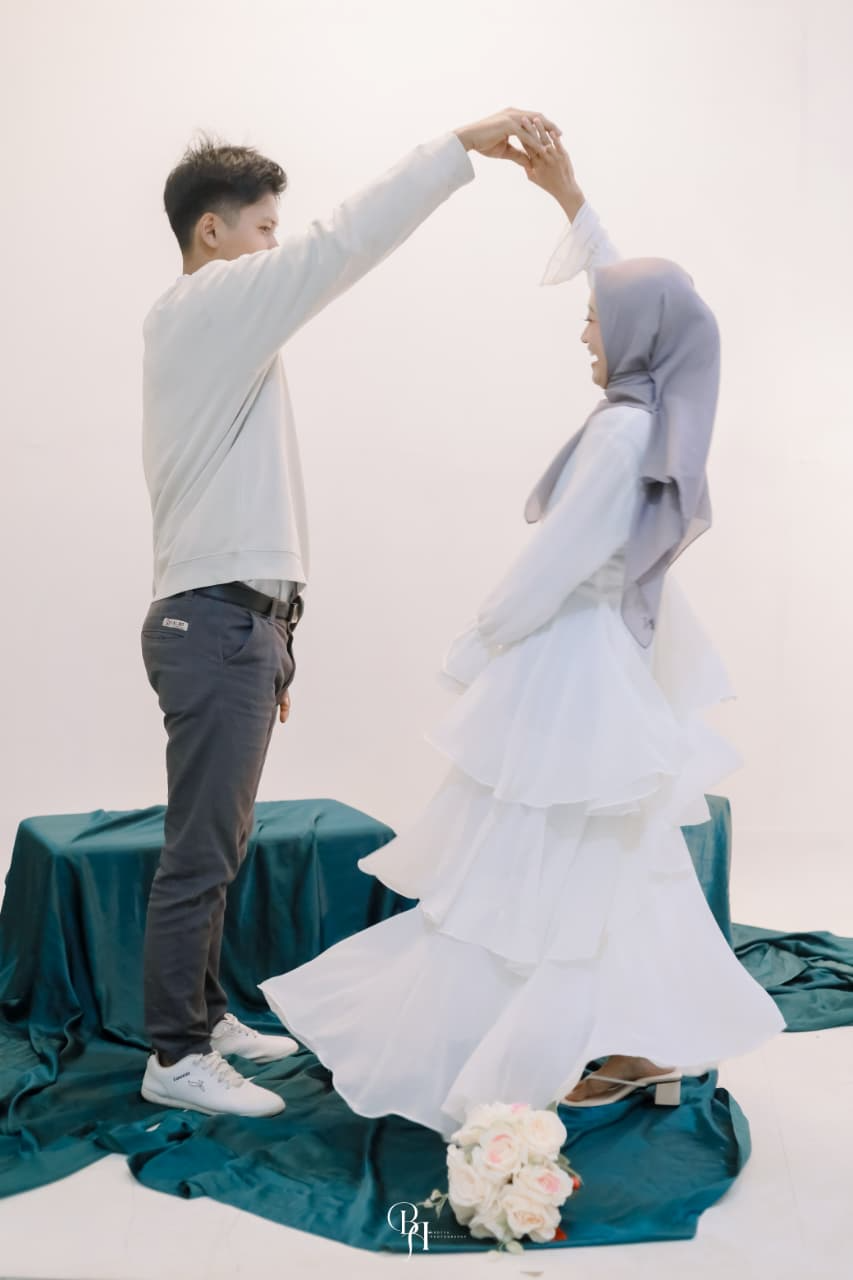
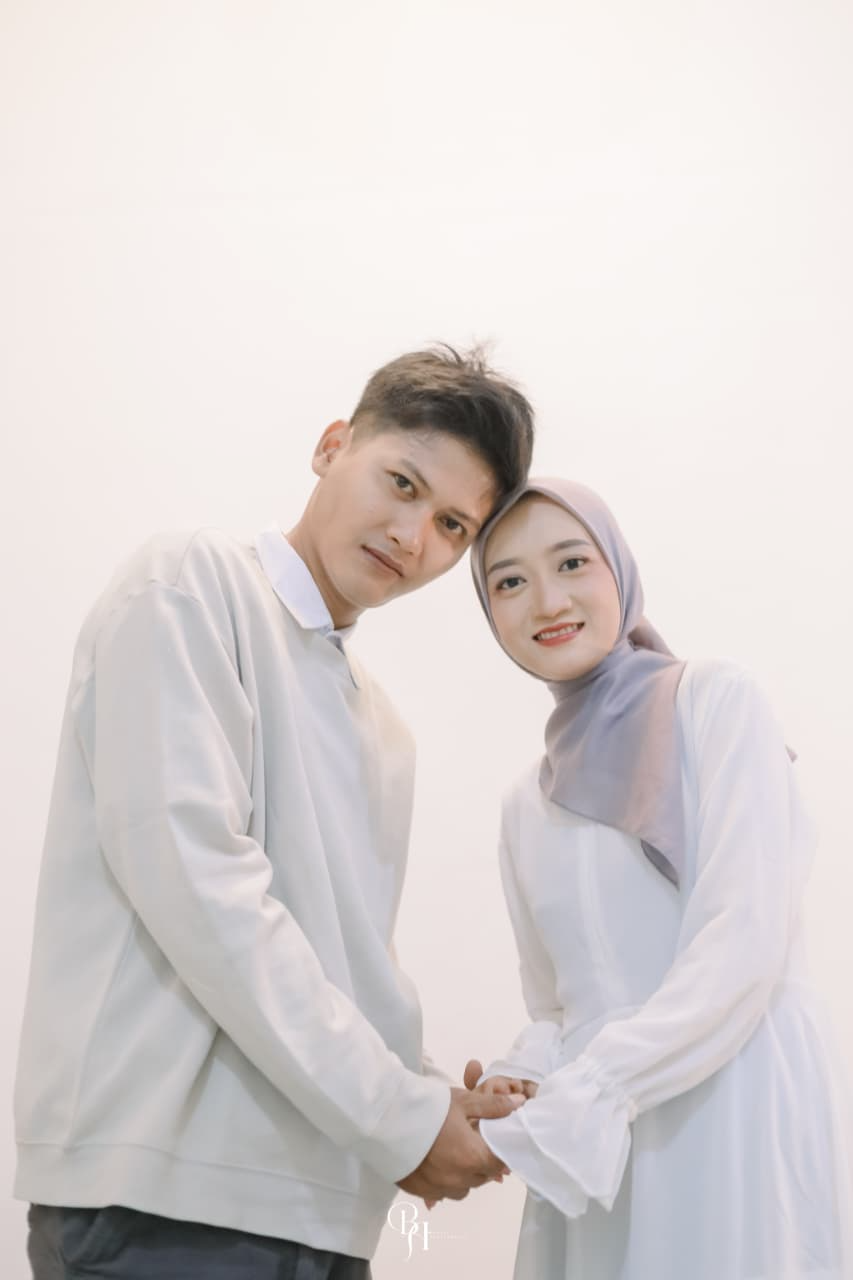
dawdq

diff --git a/risa-irfan/index.html b/risa-irfan/index.html
@@ -2470,7 +2470,7 @@
 						data-widget_type="text-editor.default">
 						<div class="elementor-widget-container">
 							<p>Putri dari Bapak Muhadi</p>
-							<p>&amp; Ibu Jumiati</p>
+							<p>&amp; Ibu Sri Jumiati</p>
 							<p>Krapyak RT 04 RW 01 Tahunan Jepara</p>
 						</div>
 					</div>
@@ -2554,6 +2554,130 @@
 					</div>
 					<div class="elementor-element elementor-element-21e4c03e elementor-widget elementor-widget-spacer"
 						data-id="21e4c03e" data-element_type="widget" data-widget_type="spacer.default">
+						<div class="elementor-widget-container">
+							<div class="elementor-spacer">
+								<div class="elementor-spacer-inner"></div>
+							</div>
+						</div>
+					</div>
+				</div>
+			</div>
+		</div>
+		<div class="elementor-element elementor-element-66d7d5ce e-flex e-con-boxed e-con e-parent" data-id="66d7d5ce"
+			data-element_type="container">
+			<div class="e-con-inner">
+				<div class="elementor-element elementor-element-57632af1 e-con-full scrollable e-flex e-con e-child"
+					data-id="57632af1" data-element_type="container"
+					data-settings="{&quot;background_background&quot;:&quot;classic&quot;}">
+					<div class="elementor-element elementor-element-eba80fa elementor-widget elementor-widget-spacer"
+						data-id="eba80fa" data-element_type="widget" data-widget_type="spacer.default">
+						<div class="elementor-widget-container">
+							<div class="elementor-spacer">
+								<div class="elementor-spacer-inner"></div>
+							</div>
+						</div>
+					</div>
+					<div class="elementor-element elementor-element-3f6edcc0 animated-slow elementor-invisible elementor-widget elementor-widget-heading"
+						data-id="3f6edcc0" data-element_type="widget"
+						data-settings="{&quot;_animation&quot;:&quot;fadeInUp&quot;}"
+						data-widget_type="heading.default">
+						<div class="elementor-widget-container">
+							<h2 class="elementor-heading-title elementor-size-default">Our Love Story</h2>
+						</div>
+					</div>
+					<div class="elementor-element elementor-element-38b3cd16 animated-slow elementor-widget-divider--view-line elementor-invisible elementor-widget elementor-widget-divider"
+						data-id="38b3cd16" data-element_type="widget"
+						data-settings="{&quot;_animation&quot;:&quot;fadeInUp&quot;}"
+						data-widget_type="divider.default">
+						<div class="elementor-widget-container">
+							<div class="elementor-divider">
+								<span class="elementor-divider-separator">
+								</span>
+							</div>
+						</div>
+					</div>
+					<div class="elementor-element elementor-element-3bd08ffe elementor-widget elementor-widget-spacer"
+						data-id="3bd08ffe" data-element_type="widget" data-widget_type="spacer.default">
+						<div class="elementor-widget-container">
+							<div class="elementor-spacer">
+								<div class="elementor-spacer-inner"></div>
+							</div>
+						</div>
+					</div>
+					<div class="elementor-element elementor-element-4992c829 animated-slow elementor-invisible elementor-widget elementor-widget-heading"
+						data-id="4992c829" data-element_type="widget"
+						data-settings="{&quot;_animation&quot;:&quot;fadeInUp&quot;}"
+						data-widget_type="heading.default">
+						<div class="elementor-widget-container">
+							<h2 class="elementor-heading-title elementor-size-default">Pertemuan Pertama</h2>
+						</div>
+					</div>
+					<div class="elementor-element elementor-element-3ec54f0d animated-slow elementor-invisible elementor-widget elementor-widget-text-editor"
+						data-id="3ec54f0d" data-element_type="widget"
+						data-settings="{&quot;_animation&quot;:&quot;fadeInUp&quot;}"
+						data-widget_type="text-editor.default">
+						<div class="elementor-widget-container">
+							<p>Kami bertemu dan berkenalan di tahun 2014 sebagai teman satu sekolah dan tidak begitu dekat, hanya sebatas teman satu sekolah saja dan sekedar tau namanya saja.</p>
+						</div>
+					</div>
+					<div class="elementor-element elementor-element-45d534a5 animated-slow elementor-invisible elementor-widget elementor-widget-heading"
+						data-id="45d534a5" data-element_type="widget"
+						data-settings="{&quot;_animation&quot;:&quot;fadeInUp&quot;}"
+						data-widget_type="heading.default">
+						<div class="elementor-widget-container">
+							<h2 class="elementor-heading-title elementor-size-default">Berkomitmen bersama</h2>
+						</div>
+					</div>
+					<div class="elementor-element elementor-element-62035e92 animated-slow elementor-invisible elementor-widget elementor-widget-text-editor"
+						data-id="62035e92" data-element_type="widget"
+						data-settings="{&quot;_animation&quot;:&quot;fadeInUp&quot;}"
+						data-widget_type="text-editor.default">
+						<div class="elementor-widget-container">
+							<p>anggal 22 November 2022, kami bertemu kembali untuk pertama kalinya dengan vibes yang berbeda dari beberapa tahun sebelumnya, yang hanya cuek dan tidak begitu dekat. Akan tetapi, seiring berjalannya waktu selama 1,5 tahun kami mencoba saling memahami. Lalu, kami meminta restu dari kedua orang tua pada tanggal 31 Agustus 2024 untuk menjalin hubungan yang serius.</p>
+						</div>
+					</div>
+					<div class="elementor-element elementor-element-4dbf437c animated-slow elementor-invisible elementor-widget elementor-widget-heading"
+						data-id="4dbf437c" data-element_type="widget"
+						data-settings="{&quot;_animation&quot;:&quot;fadeInUp&quot;}"
+						data-widget_type="heading.default">
+						<div class="elementor-widget-container">
+							<h2 class="elementor-heading-title elementor-size-default">Tunangan</h2>
+						</div>
+					</div>
+					<div class="elementor-element elementor-element-17468ed5 animated-slow elementor-invisible elementor-widget elementor-widget-text-editor"
+						data-id="17468ed5" data-element_type="widget"
+						data-settings="{&quot;_animation&quot;:&quot;fadeInUp&quot;}"
+						data-widget_type="text-editor.default">
+						<div class="elementor-widget-container">
+							<p>Setelah mendapatkan restu dari kedua orang tua, tanggal 9 Oktober 2024 kami meyakinkan diri untuk melanjutkan jenjang yang lebih serius lagi dengan melaksanakan lamaran dan memutuskan untuk menikah.</p>
+						</div>
+					</div>
+					<div class="elementor-element elementor-element-8b8d3e6 animated-slow elementor-invisible elementor-widget elementor-widget-heading"
+						data-id="8b8d3e6" data-element_type="widget"
+						data-settings="{&quot;_animation&quot;:&quot;fadeInUp&quot;}"
+						data-widget_type="heading.default">
+						<div class="elementor-widget-container">
+							<h2 class="elementor-heading-title elementor-size-default">Menikah</h2>
+						</div>
+					</div>
+					<div class="elementor-element elementor-element-2f405abb animated-slow elementor-invisible elementor-widget elementor-widget-text-editor"
+						data-id="2f405abb" data-element_type="widget"
+						data-settings="{&quot;_animation&quot;:&quot;fadeInUp&quot;}"
+						data-widget_type="text-editor.default">
+						<div class="elementor-widget-container">
+							<p>Tepat di tanggal 25 September 2025 ini, jika dihitung dengan jari, rasanya begitu singkat. Namun doa akan terus mengalir. Untuk itu kami mohon doa restu dari keluarga, saudara, sahabat, dan teman-teman lainnya agar acara kami diberikan kelancaran, berjalan dengan baik dan dimudahkan dalam segala hal.</p>
+						</div>
+					</div>
+					<div class="elementor-element elementor-element-2f405abb animated-slow elementor-invisible elementor-widget elementor-widget-text-editor"
+						data-id="2f405abb" data-element_type="widget"
+						data-settings="{&quot;_animation&quot;:&quot;fadeInUp&quot;}"
+						data-widget_type="text-editor.default">
+						<div class="elementor-widget-container">
+							<p>- Berawal dari ketidaksengajaan menjadikan kami lebih dekat dan memiliki komitmen untuk hidup bersama -</p>
+						</div>
+					</div>
+					<div class="elementor-element elementor-element-3933e60b elementor-widget elementor-widget-spacer"
+						data-id="3933e60b" data-element_type="widget" data-widget_type="spacer.default">
 						<div class="elementor-widget-container">
 							<div class="elementor-spacer">
 								<div class="elementor-spacer-inner"></div>
